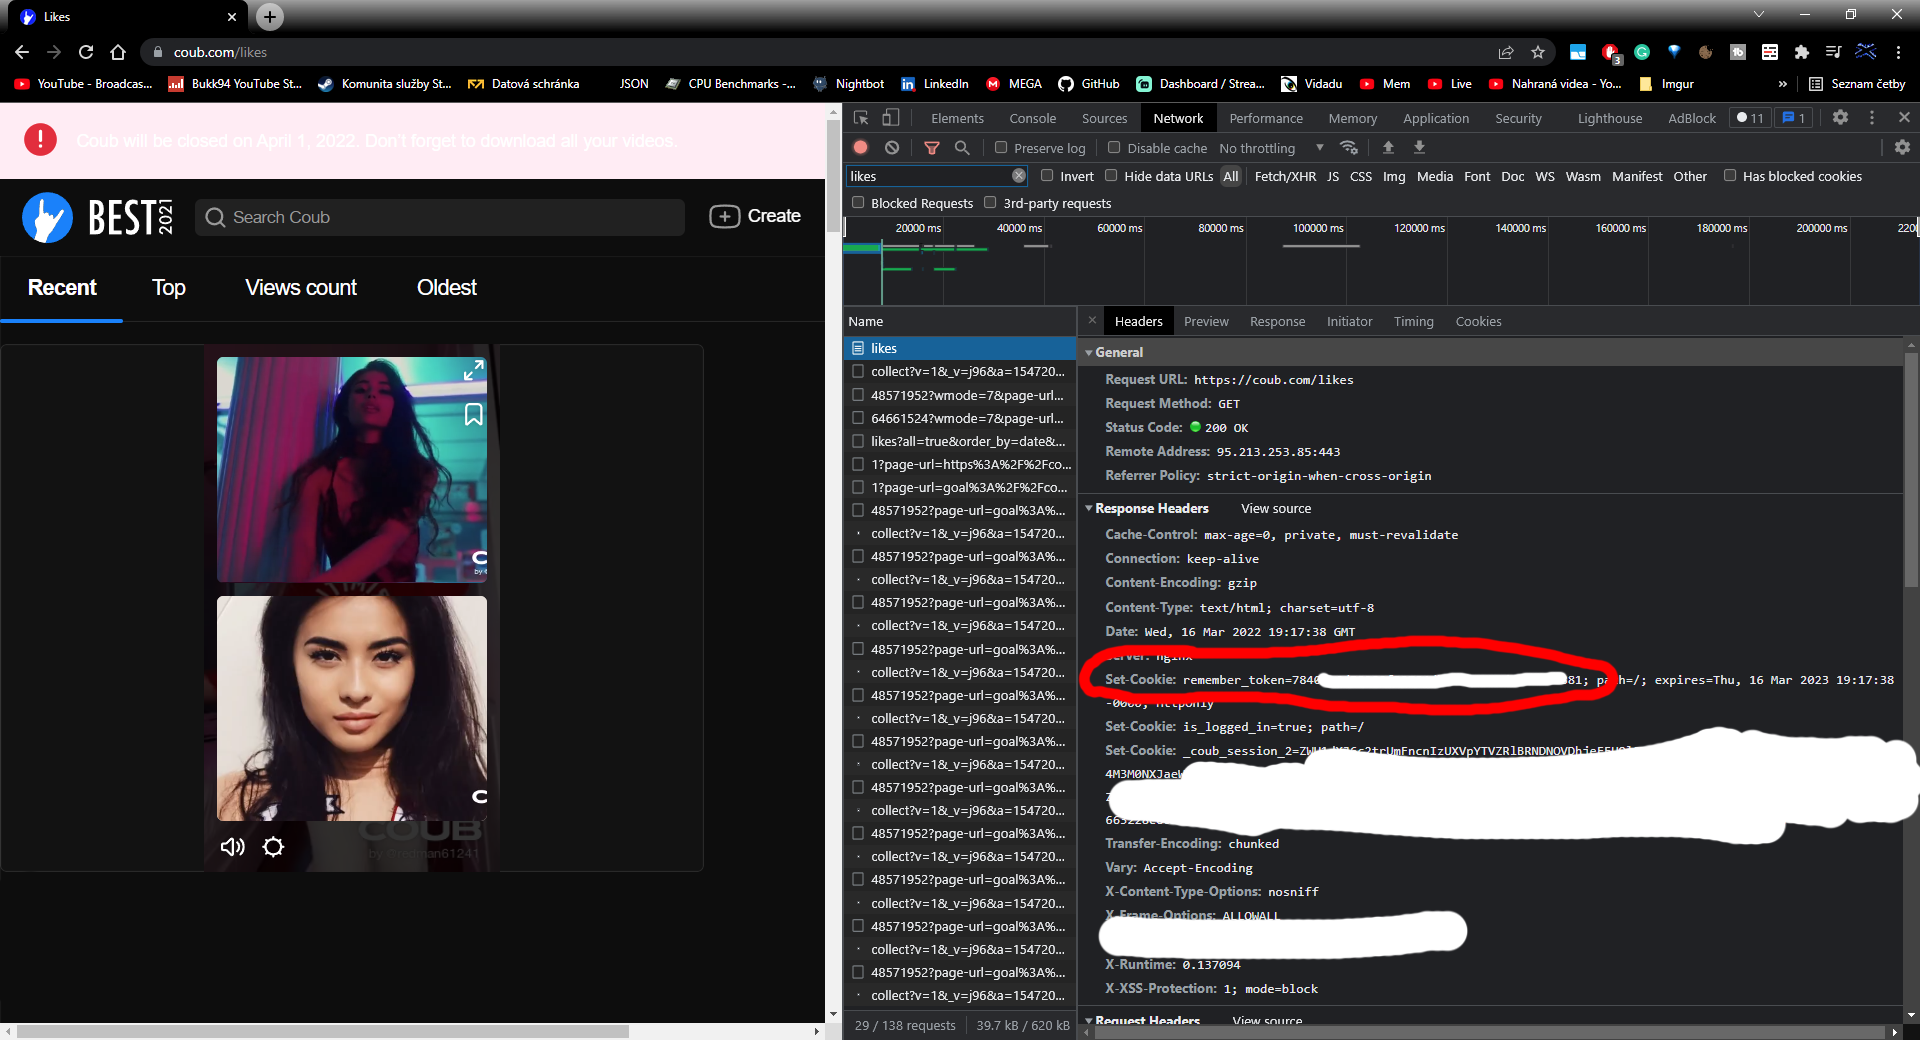
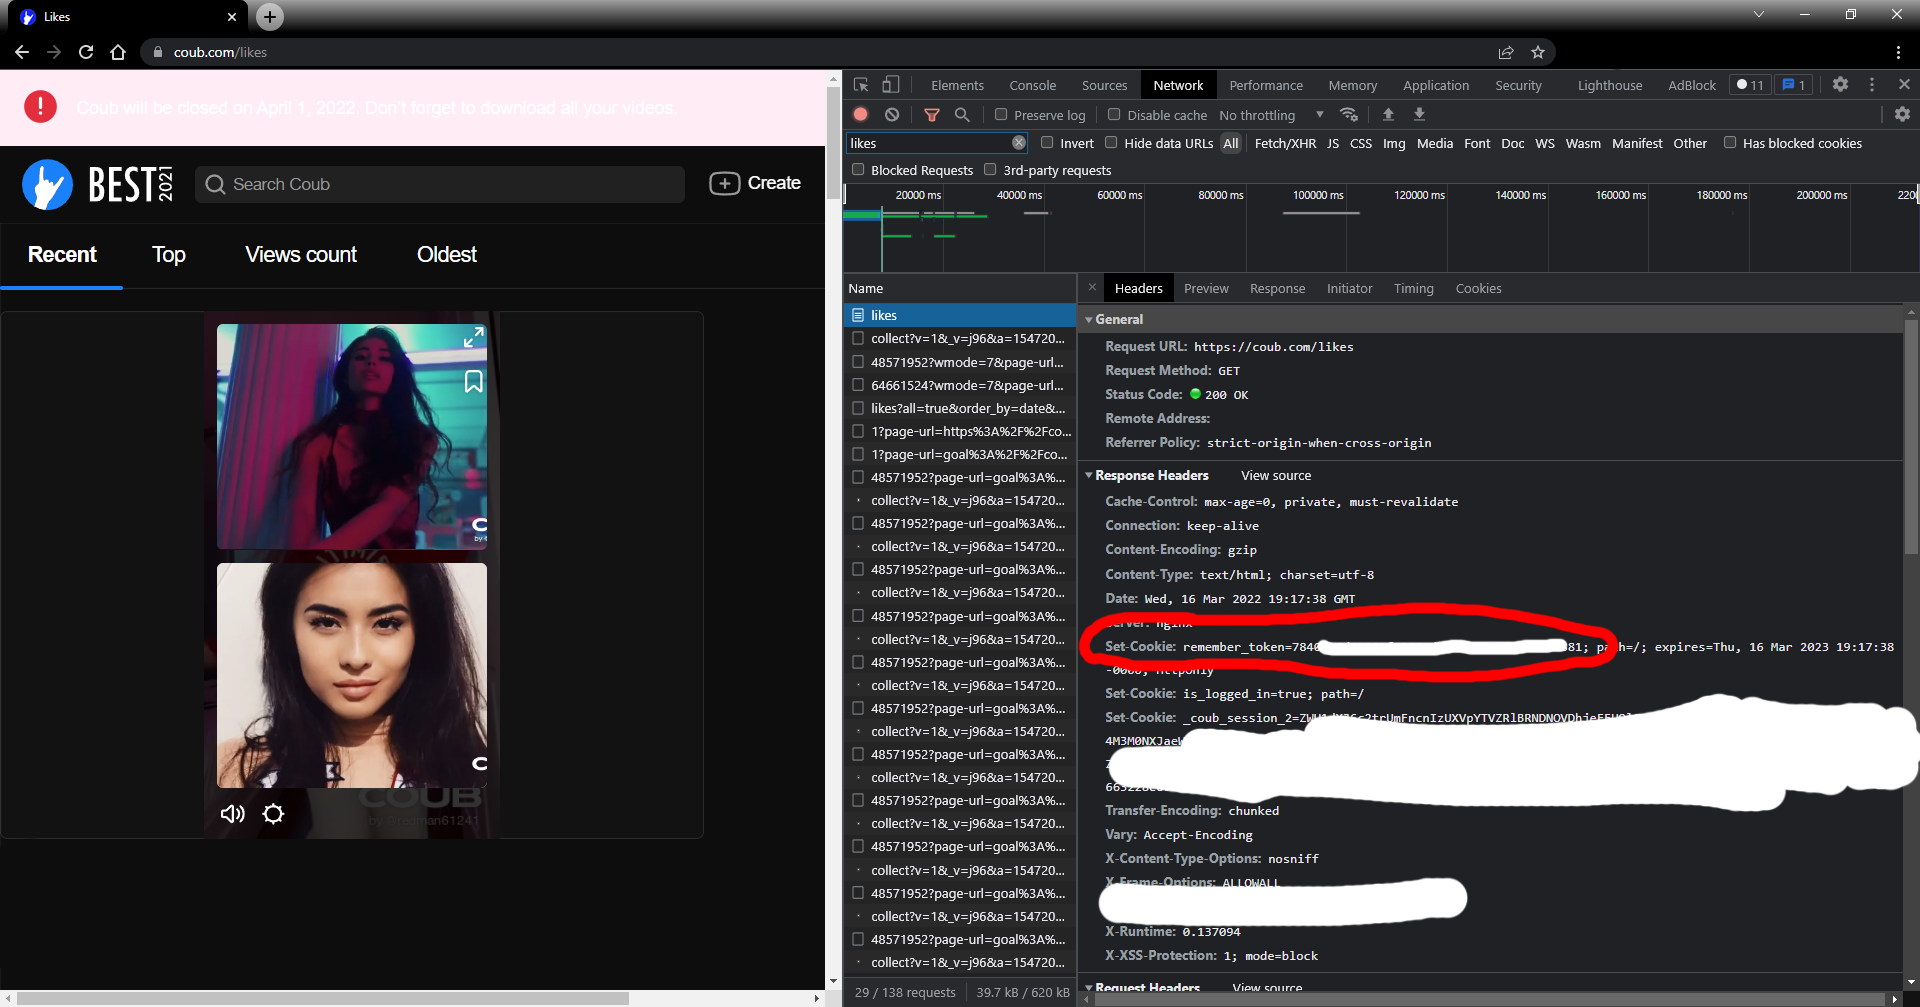
Add support for Proxy URL

diff --git a/CoubDownloader/Program.cs b/CoubDownloader/Program.cs
@@ -1,6 +1,7 @@
 using System;
 using System.IO;
 using System.Linq;
+using System.Reflection;
 using CoubDownloader.Configurations;
 using CoubDownloader.Extensions;
 using Newtonsoft.Json;
@@ -9,14 +10,15 @@ namespace CoubDownloader
 {
     public class Program
     {
-        private const string Version = "0.12";
+        private static readonly string Version =
+            Assembly.GetExecutingAssembly().GetCustomAttribute<AssemblyFileVersionAttribute>()?.Version;
         
         public static void Main()
         {
             try
             {
                 // This call is Windows specific. Try to set width to nicely match text, but if that fails it's no big deal.
-                Console.SetWindowSize(125, Console.WindowHeight);
+                Console.SetWindowSize(130, Console.WindowHeight);
             } catch {}
             ConsoleEx.WriteLineColor(@"[
  ██████  ██████  ██    ██ ██████      ██████   ██████  ██     ██ ███    ██ ██       ██████   █████  ██████  ███████ ██████  
@@ -109,12 +111,28 @@ namespace CoubDownloader
                     hasErrorOrWarning = true;
                 }
 
+                if (!string.IsNullOrWhiteSpace(configuration.ProxyUrl))
+                {
+                    if (!Uri.TryCreate(configuration.ProxyUrl, UriKind.Absolute, out var proxyUri) ||
+                        (proxyUri.Scheme != Uri.UriSchemeHttp && proxyUri.Scheme != Uri.UriSchemeHttps))
+                    {
+                        ConsoleEx.WriteLineColor($"[Invalid {nameof(Configuration.ProxyUrl)} '{configuration.ProxyUrl}', only http:// or https:// proxies are supported. Proxy will not be used.]", ConsoleColor.Red);
+                        configuration.ProxyUrl = null;
+                        hasErrorOrWarning = true;
+                    }
+                    else
+                    {
+                        ConsoleEx.WriteLineColor($"[Proxy enabled: {configuration.ProxyUrl}]", ConsoleColor.Yellow);
+                        hasErrorOrWarning = true;
+                    }
+                }
+
                 if (hasErrorOrWarning)
                 {
                     // Add extra formatting line
                     Console.WriteLine();
                 }
-                
+
                 return configuration;
             }
             catch (Exception ex)

diff --git a/CoubDownloader/Crawler.cs b/CoubDownloader/Crawler.cs
@@ -82,7 +82,7 @@ namespace CoubDownloader
             DownloadLinks(url, channel, null, (int)data.total_pages);
         }
 
-        private static bool VerifyIfChannelExists(string channel)
+        private bool VerifyIfChannelExists(string channel)
         {
             var urlToCheck = $"https://coub.com/{channel}";
 
@@ -91,6 +91,11 @@ namespace CoubDownloader
                 var request = (HttpWebRequest)WebRequest.Create(urlToCheck);
                 request.Method = "HEAD";
                 request.UserAgent = UserAgent.GetRandomAgent();
+                if (!string.IsNullOrWhiteSpace(_configuration.ProxyUrl))
+                {
+                    request.Proxy = new WebProxy(_configuration.ProxyUrl);
+                }
+                
                 var response = (HttpWebResponse)request.GetResponse();
                 var result = response.StatusCode == HttpStatusCode.OK;
                 response.Close();
@@ -389,7 +394,12 @@ namespace CoubDownloader
             Thread.Sleep((int)_configuration.WaitTime * 1000);
             var request = (HttpWebRequest)WebRequest.Create(url);
             request.UserAgent = UserAgent.GetRandomAgent();
-            
+
+            if (!string.IsNullOrWhiteSpace(_configuration.ProxyUrl))
+            {
+                request.Proxy = new WebProxy(_configuration.ProxyUrl);
+            }
+
             if (!string.IsNullOrWhiteSpace(token))
             {
                 // Add cookies header with access token to retrieve user-specific data

diff --git a/CoubDownloader/UserAgent.cs b/CoubDownloader/UserAgent.cs
@@ -10,8 +10,8 @@ namespace CoubDownloader
 		}
 
         // Silly way of selecting pseudo-random agent from list of existing agents
-		private static readonly string[] UserAgentsList = new string[]
-		{
+		private static readonly string[] UserAgentsList =
+		[
 			"Mozilla/5.0 (Windows NT 10.0) AppleWebKit/537.36 (KHTML, like Gecko) Chrome/98.0.4758.80 Safari/537.36",
 			"Mozilla/5.0 (Windows NT 10.0; WOW64) AppleWebKit/537.36 (KHTML, like Gecko) Chrome/98.0.4758.80 Safari/537.36",
 			"Mozilla/5.0 (Windows NT 10.0; Win64; x64) AppleWebKit/537.36 (KHTML, like Gecko) Chrome/98.0.4758.80 Safari/537.36",
@@ -130,6 +130,6 @@ namespace CoubDownloader
 			"Mozilla/5.0 (Windows NT 10.0) AppleWebKit/537.43 (KHTML, like Gecko) Chrome/93.0.4577.82 Safari/537.36 OPR/79.0.4143.56",
 			"Mozilla/5.0 (Windows NT 10.0; WOW64) AppleWebKit/537.43 (KHTML, like Gecko) Chrome/93.0.4577.82 Safari/537.36 OPR/79.0.4143.56",
 			"Mozilla/5.0 (Windows NT 10.0; Win64; x64) AppleWebKit/537.43 (KHTML, like Gecko) Chrome/93.0.4577.82 Safari/537.36 OPR/79.0.4143.56"
-		};
+		];
     }
 }

diff --git a/CoubDownloader/Downloader.cs b/CoubDownloader/Downloader.cs
@@ -1,4 +1,5 @@
 using System;
+using System.Collections.Generic;
 using System.Globalization;
 using System.IO;
 using System.Linq;
@@ -94,7 +95,22 @@ namespace CoubDownloader
                     $"--repeat {(_configuration.Loops <= 0 ? 1000 : _configuration.Loops)} " +
                     $"{GetVideoSettings()} " +
                     $"{ShouldKeepIndividualStreams()}",
-                Environment.CurrentDirectory);
+                Environment.CurrentDirectory,
+                GetProxyEnvironment());
+        }
+
+        private Dictionary<string, string> GetProxyEnvironment()
+        {
+            if (string.IsNullOrWhiteSpace(_configuration.ProxyUrl))
+            {
+                return null;
+            }
+            
+            return new Dictionary<string, string>
+            {
+                ["HTTP_PROXY"] = _configuration.ProxyUrl,
+                ["HTTPS_PROXY"] = _configuration.ProxyUrl
+            };
         }
 
         private string GetVideoSettings()

diff --git a/CoubDownloader/Run.cs b/CoubDownloader/Run.cs
@@ -1,4 +1,5 @@
-using System;
+using System;
+using System.Collections.Generic;
 using System.Diagnostics;
 using System.IO;
 
@@ -6,7 +7,7 @@ namespace CoubDownloader
 {
     public static class Run
     {
-        public static void RunCommand(string commandToRun, string workingDirectory = null)
+        public static void RunCommand(string commandToRun, string workingDirectory = null, Dictionary<string, string> environment = null)
         {
             if (string.IsNullOrEmpty(workingDirectory))
             {
@@ -21,6 +22,14 @@ namespace CoubDownloader
                 WorkingDirectory = workingDirectory,
                 Arguments = "/k"
             };
+
+            if (environment != null)
+            {
+                foreach (var kvp in environment)
+                {
+                    processStartInfo.EnvironmentVariables[kvp.Key] = kvp.Value;
+                }
+            }
 
             var process = Process.Start(processStartInfo);
 

diff --git a/CoubDownloader/Configurations/Configuration.cs b/CoubDownloader/Configurations/Configuration.cs
@@ -17,7 +17,9 @@
         public string OutputFolderPath { get; set; }
 
         public bool NsfwOnly { get; set; }
-        
+
+        public string ProxyUrl { get; set; }
+
         public static Configuration Default => new()
         {
             DownloadSegments = false,
@@ -27,7 +29,8 @@
             Ordering = CoubOrder.Newest,
             KeepAudioVideo = false,
             OutputFolderPath = null,
-            NsfwOnly = false
+            NsfwOnly = false,
+            ProxyUrl = null
         };
     }
 }

diff --git a/CoubDownloader/Constants.cs b/CoubDownloader/Constants.cs
@@ -2,11 +2,6 @@
 {
     public static class Constants
     {
-        /// <summary>
-        ///     Wait between each download, in seconds.
-        /// </summary>
-        public const int WaitBetweenDownloads = 1;
-        
         public const string CoubInfoDir = "Coubs-info";
         public const string CoubDataDir = "Coubs";
         public const string RepostsDir = "Reposts";

diff --git a/README.md b/README.md
@@ -2,7 +2,7 @@
 
 <p align="center">
     <a href="https://www.microsoft.com/net"><img src="https://img.shields.io/badge/-.NET%208.0-blueviolet" style="max-height: 300px;"></a>
-    <img src="https://img.shields.io/badge/version-1.0.13-blue" style="max-height: 300px;">
+    <img src="https://img.shields.io/badge/version-1.0.14-blue" style="max-height: 300px;">
     <a href="https://github.com/Bukk94/KickLib/blob/master/LICENSE"><img src="https://img.shields.io/badge/License-MIT-yellow.svg" style="max-height: 300px;"></a>
 </p>
 
@@ -127,6 +127,7 @@ You can open the file with any text editor (for example `notepad`).
 * `KeepAudioVideo` - Each Coub consists of audio and video. They are both combined into final Coub. By default those files are removed, but you can choose to keep them.
 * `OutputFolderPath` - By default, all Coubs are downloaded into Root directory. You can change that and enter your own directory (e.g. on a different drive).
 * `NsfwOnly` - true/false if CoubDownloader should download only NSFW coubs or all of them. NOTE that Coub will permanently remove all NSFW coubs on **June 27th 2022**, and this option will stop working (as there will be nothing to download).
+* `ProxyUrl` - HTTP/HTTPS proxy URL to route all requests through (e.g. `http://proxy.example.com:8080` or `http://user:password@proxy.example.com:8080`). Useful if your IP is being blocked by Coub. Applies to both the link-crawling phase and the download phase.
 
 ## Files structure
 
@@ -210,4 +211,5 @@ this CoubDownloader's usage and to avoid common issues and problems.
   + **Solution**: That means you were temporarily IP banned from Coub's website (usually for 1 hour).
   Don't panic, after some time you'll be able to access it again. 
   This happens when you are mass downloading coubs within short interval.
-  Try opening `Configuration.json` file and increasing `WaitTime` to 3 or more seconds. 
+  Try opening `Configuration.json` file and increasing `WaitTime` to 3 or more seconds.
+  If blocks persist, you can also set `ProxyUrl` in `Configuration.json` to route traffic through a different IP address.
